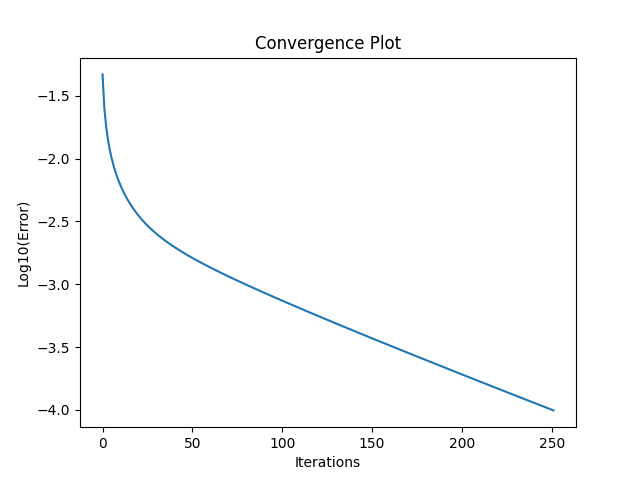
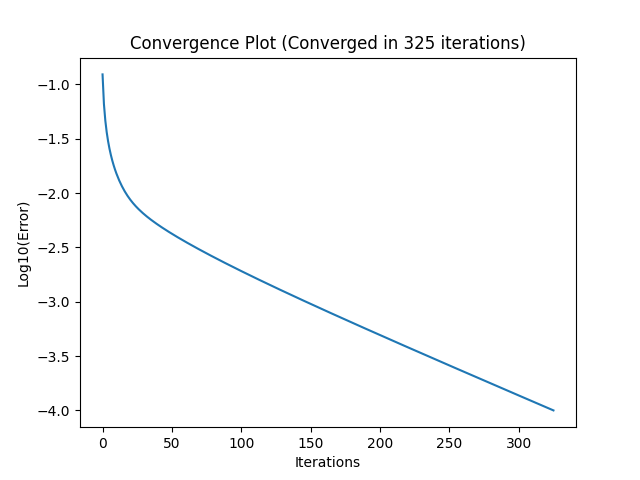
Added a bunch of files

diff --git a/Assignment_3/24M0003.py b/Assignment_3/24M0003.py
@@ -7,7 +7,7 @@ def initialize_grid(l_x, l_y, Δx, Δy, ψ1, ψ2, ψ3, init_guess=200):
     β = Δx / Δy
     nx = int(l_x / Δx) + 1
     ny = int(l_y / Δy) + 1
-    ψ = np.ones((nx, ny)) * 200
+    ψ = np.ones((nx, ny)) * init_guess
 
     # Apply boundary conditions
     ψ[0, :] = ψ3  # Left
@@ -46,15 +46,15 @@ def point_jacobi(ψ, β, nx, ny, iterations=10000, tolerance=1e-4):
         print("Convergence not reached")
         flag = False
 
-    return ψ, error_val, flag
+    return ψ, error_val, k, flag
 
 
-def plot_convergence(error_val):
+def plot_convergence(error_val, k):
     """Plot and save the convergence plot."""
     plt.plot(np.log10(error_val))
     plt.xlabel("Iterations")
     plt.ylabel("Log10(Error)")
-    plt.title("Convergence Plot")
+    plt.title(f"Convergence Plot (Converged in {k} iterations)")
     plt.savefig(f"convergence_{ψ1}_{ψ2}_{ψ3}_{init_guess}.png")
     # plt.show()
     plt.close()
@@ -122,8 +122,8 @@ if __name__ == "__main__":
     init_guess = init_guess_1()
 
     ψ, β, nx, ny = initialize_grid(l_x, l_y, Δx, Δy, ψ1, ψ2, ψ3, init_guess)
-    ψ, error_val, flag = point_jacobi(ψ, β, nx, ny)
-    plot_convergence(error_val)
+    ψ, error_val, k, flag = point_jacobi(ψ, β, nx, ny)
+    plot_convergence(error_val, k)
 
     if flag:
         # Mirroring ψ about the right edge
